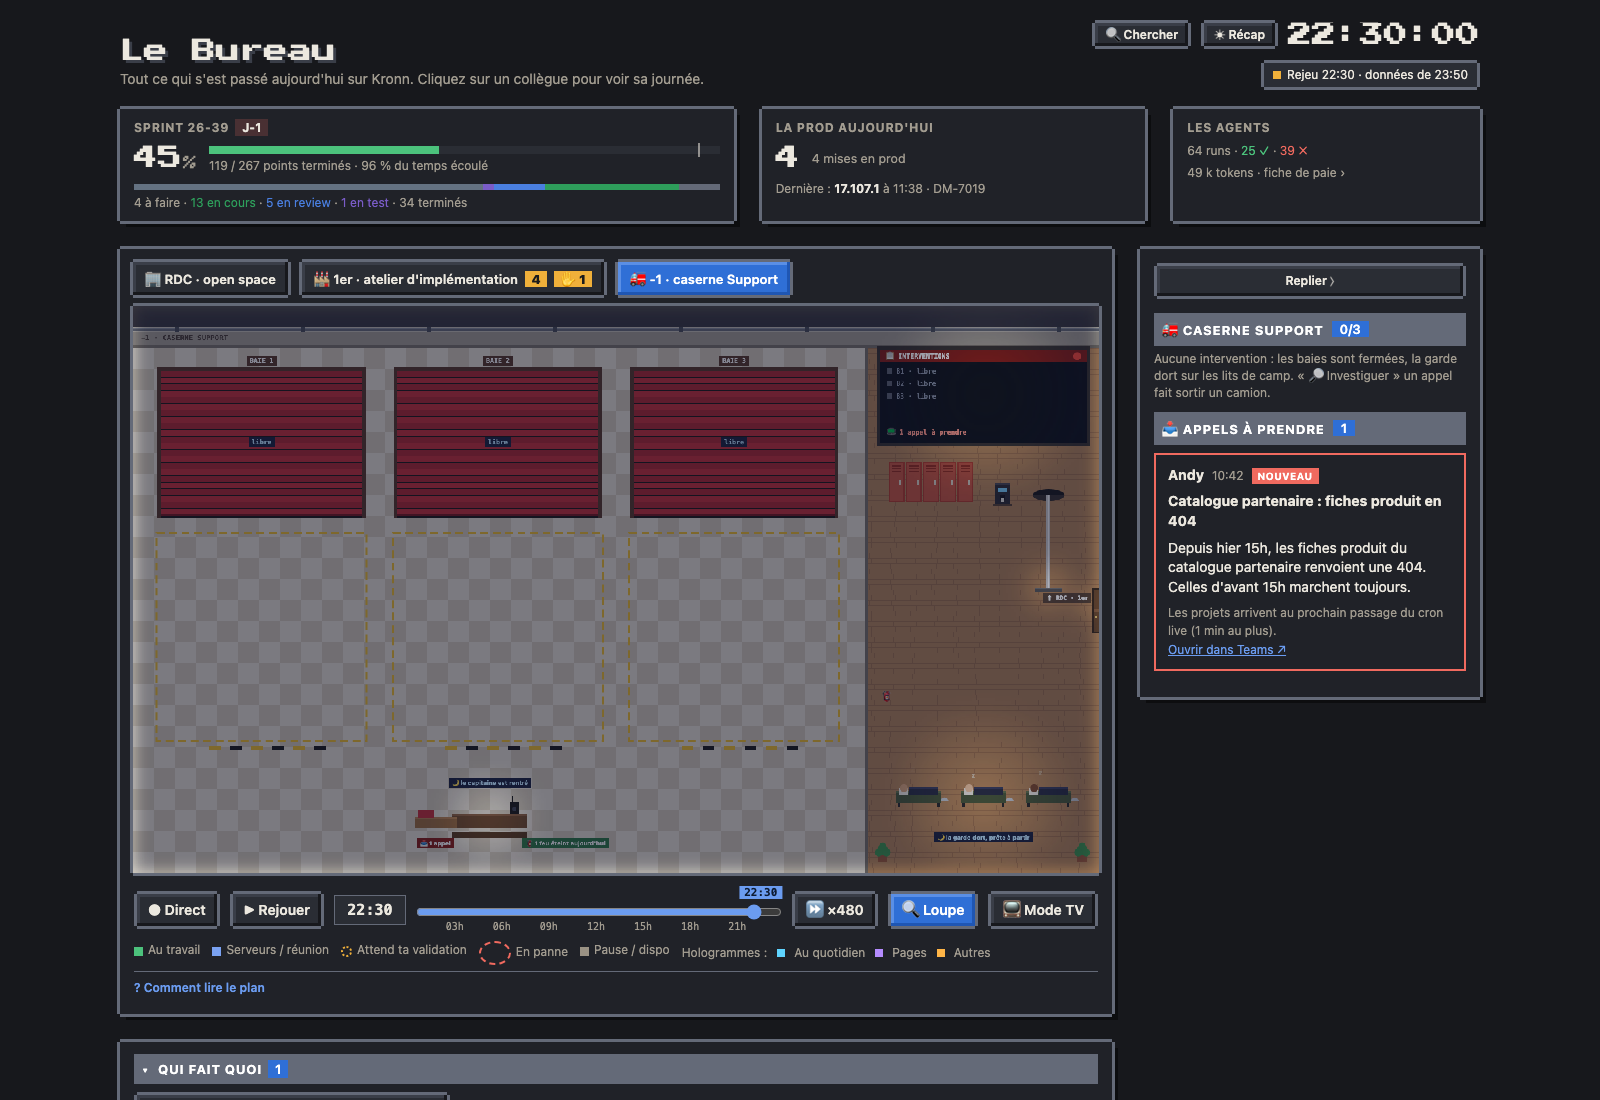
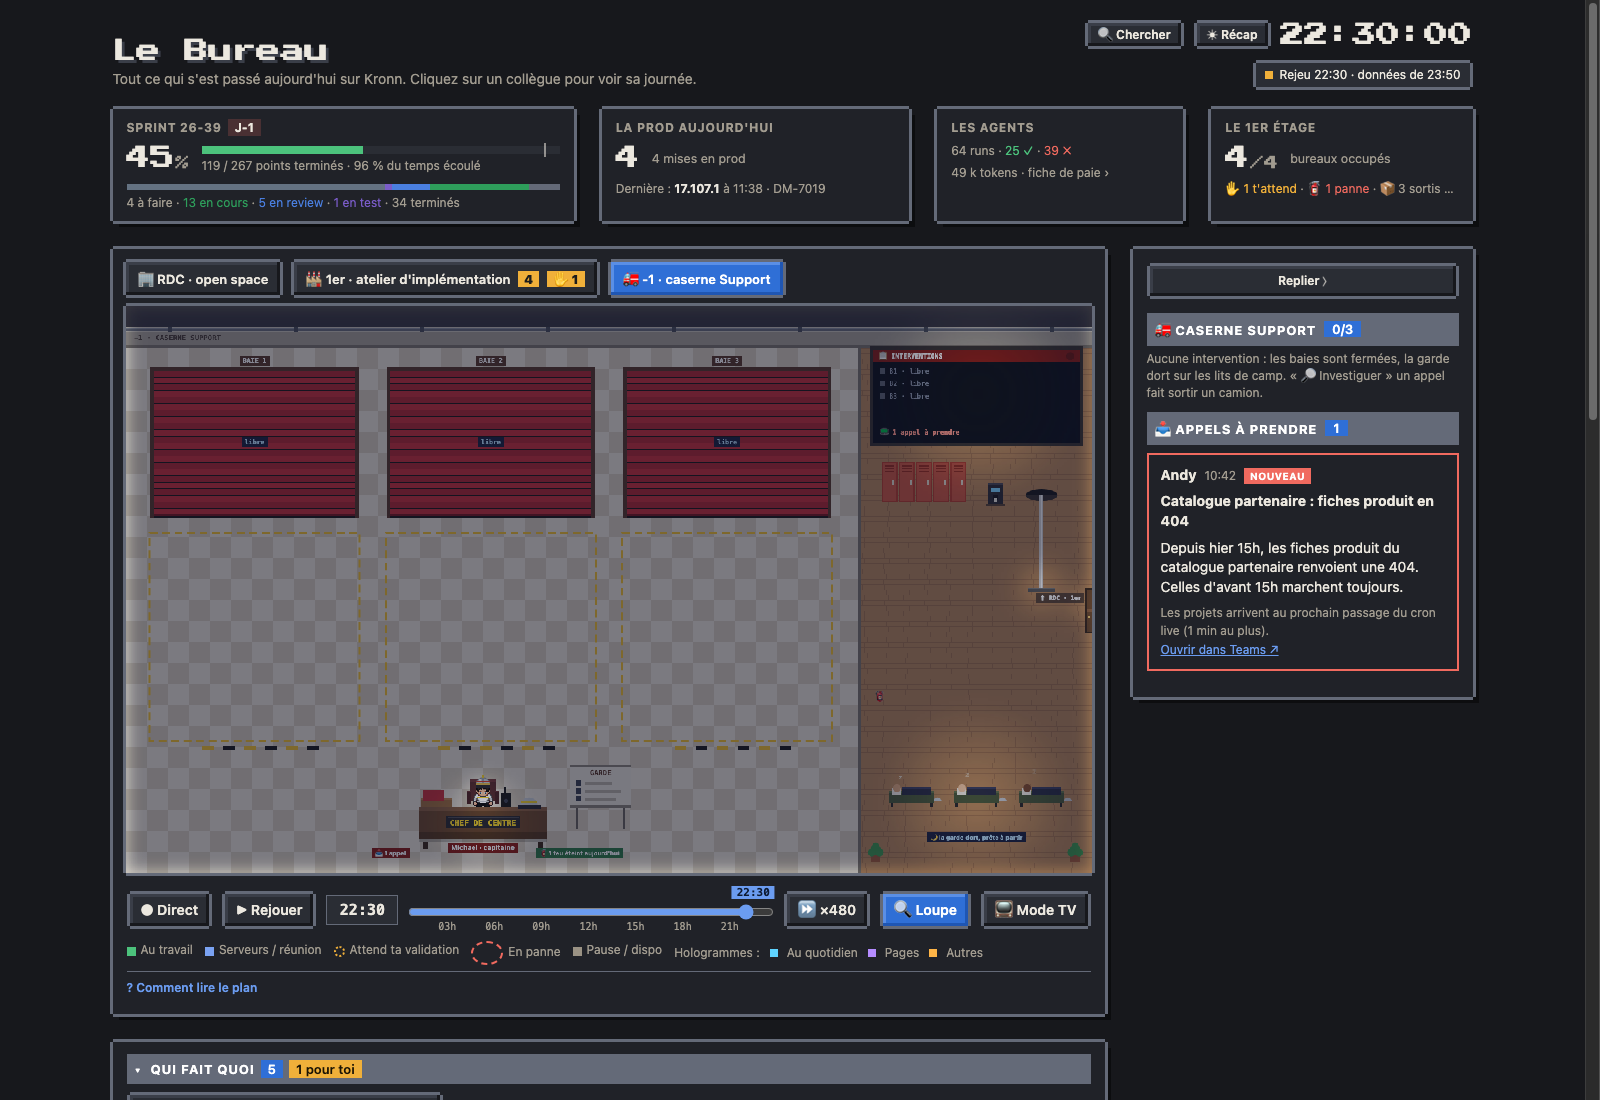
feat(caserne): le bureau du chef de centre, agrandi, et le capitaine de face
Le poste du capitaine était une planche de bois, le capitaine debout derrière, de dos. Il devient le bureau du chef de centre (maquette B choisie par le mainteneur), agrandi ×1,75 : bureau en bois devant lui, plaque « CHEF DE CENTRE », fauteuil rouge, radio verte aux heures de bureau, casque posé, corbeille d'appels cliquable ; à côté, le tableau de garde sur pied (×1,35), un voyant par baie, avec son infobulle. Le capitaine reste à l'échelle des autres, de face, visible jusqu'à la taille ; son étiquette passe sous le bureau. Il part à la vanne par l'arrière, le bureau reste. Pastilles 📥 et 🧯 sous le bureau, lumière du soir et halo inchangés.

diff --git a/page/src/68-caserne.js b/page/src/68-caserne.js
@@ -12,7 +12,7 @@ const CS_POSTES=[{k:'tri',i:'🏷',n:'Tri'},{k:'logs',i:'🔎',n:'Logs'},{k:'cau
   {k:'relecture',i:'🧐',n:'Relecture'},{k:'gate',i:'✋',n:'Toi',gate:true},{k:'post',i:'📣',n:'Teams'}];
 const CS_ST={ok:['ok','a travaillé'],run:['run','au travail'],err:['err','en panne'],gate:['wait','t\'attend'],wait:['','attend son tour']};
 const CS_BAYS=3, CS_BX=[1,12.25,23.5], CS_BW=10.25, CS_DY0=3.1, CS_DY1=10.1, CS_Z0=10.8, CS_Z1=20.7, CS_R1=14.3, CS_R2=18.7;
-const CS_DESK={x:17*AT_TS,y:24.4*AT_TS}, CS_POLE={x:43.6*AT_TS,y0:9*AT_TS,y1:13.4*AT_TS}, CS_TABLE={x:39*AT_TS,y:16*AT_TS};
+const CS_DESK={x:17*AT_TS,y:24.6*AT_TS}, CS_POLE={x:43.6*AT_TS,y0:9*AT_TS,y1:13.4*AT_TS}, CS_TABLE={x:39*AT_TS,y:16*AT_TS};
 const CS_DEP_MS=8e3; // le départ d'un camion : gyrophares, sortie par la baie, rideau qui se referme
 const caserneOn=()=>supportOn();
 // les postes de l'investigation (sous-workflows support_*, CFG.support.postes_wf) : leurs runs ne passent pas au RDC
@@ -218,31 +218,59 @@ function csGuard(now,people){ // la garde : aux cartes le jour, sur les lits de 
   csPole();atDoor(46*T,AT_HY0*T);
   csLate(people,()=>atPill('⬆ RDC · 1er',46*T-48,AT_HY0*T+16,'#5a4636','#fff','bold 9px ui-monospace,Menlo,monospace'),AT_HY0*T);
 }
-// ---------- le capitaine (le boss) : à son poste de commandement, à la vanne quand une réponse attend sa validation ----------
+// ---------- le capitaine (le boss) : à son bureau de chef de centre, à la vanne quand une réponse attend sa validation ----------
+// Vu de face derrière son bureau (comme le boss au 1er) : plaque « CHEF DE CENTRE », fauteuil rouge, radio, casque posé, corbeille
+// d'appels ; à côté, le tableau de garde sur pied, un voyant par baie. Le meuble est agrandi (CS_K) ; le capitaine reste à
+// l'échelle des autres personnages. CS_DESK : ses pieds à son poste.
+const CS_K=1.75, CS_KB=1.35, CS_BACK=16; // échelle du bureau, du tableau de garde ; le capitaine se tient CS_BACK px derrière le bureau
 const csCaptainSprite=b=>b&&b.captain_sprite&&(SPR[b.captain_sprite]||RECIPES[b.captain_sprite])?b.captain_sprite:null;
+function csBayCol(slots,b,now){const s=slots[b];if(!s)return '#3d4250';if(s.dep)return '#3fbf6a';const k=s.s.k;
+  return k==='gate'?(REDUCED_MOTION||Math.floor(now/450)%2?'#ffcf4a':'#a37a10'):k==='failed'?'#e0614f':'#5b8def';}
+function csDesk(slots,now,calls,open){ // le bureau, devant le capitaine : dessiné après lui
+  const {x,y:F}=CS_DESK, K=CS_K, q=(dx,dy,w,h,c)=>R(ctx,Math.round(x+dx*K),Math.round(F+dy*K),Math.round(w*K),Math.round(h*K),c);
+  q(-56,-12,112,24,'#6e4a2c');q(-56,-14,112,4,'#8a6040');q(-56,8,112,6,'#56391f');q(-56,14,112,3,'rgba(0,0,0,.2)');
+  q(-52,17,4,6,'#3e2a18');q(48,17,4,6,'#3e2a18'); // les pieds
+  q(-32,-6,64,11,'#2a2a30');q(-31,-5,62,1,'#4a4a52'); // la plaque
+  ctx.font='bold '+Math.round(7*K)+'px ui-monospace,Menlo,monospace';ctx.fillStyle='#f2d22a';ctx.textAlign='center';ctx.fillText('CHEF DE CENTRE',x,Math.round(F+3*K));ctx.textAlign='left';
+  q(-54,-22,26,8,'#a0703f');q(-54,-22,26,2,'#b98552'); // la corbeille d'appels
+  for(let k=0;k<Math.min(4,calls.length);k++)q(-52+k*5,-20-8-k*2,18,9,'#c8323a');
+  ctx.fillStyle='#c9cfd6';ctx.beginPath();ctx.arc(x+40*K,F-14*K,8*K,Math.PI,0);ctx.fill();q(30,-15,20,3,'#2a2a30');q(33,-19,14,2,'#f2d22a'); // le casque posé
+  q(16,-14-12,8,12,'#1c1c1c');q(18,-14-17,1.5,5,'#1c1c1c'); // la radio
+  ctx.fillStyle=open?'#7dffb0':'#3d4250';ctx.beginPath();ctx.arc(x+20*K,F-19*K,1.8*K,0,7);ctx.fill();
+}
+function csGarde(slots,now){ // le tableau de garde sur pied, à droite du bureau : un voyant par baie
+  const K=CS_KB, bx=CS_DESK.x+5.6*AT_TS, base=CS_DESK.y+10, q=(dx,dy,w,h,c)=>R(ctx,Math.round(bx+dx*K),Math.round(base+dy*K),Math.round(w*K),Math.round(h*K),c);
+  q(-28,-24,3,24,'#6a655c');q(25,-24,3,24,'#6a655c'); // les pieds
+  q(-34,-73,68,46,'#e9e4d8');q(-34,-73,68,3,'#8a8478');q(-34,-27,68,3,'#8a8478');
+  ctx.font='bold '+Math.round(8*K)+'px ui-monospace,Menlo,monospace';ctx.fillStyle='#5a3a2a';ctx.textAlign='center';ctx.fillText('GARDE',bx,Math.round(base-61*K));ctx.textAlign='left';
+  for(let b=0;b<3;b++){q(-28,-55+b*9,7,6,csBayCol(slots,b,now));q(-17,-53+b*9,30+(b*11)%18,3,'#b9b2a4');}
+  atHitCs('garde',Math.round(bx-34*K),Math.round(base-73*K),Math.round(68*K),Math.round(73*K),{});
+}
 function csCaptain(slots,now,dt,people){
-  const T=AT_TS, boss=chars.find(c=>c.boss), d=CS_DESK, open=atOpen();
-  R(ctx,d.x-1.8*T,d.y-.2*T,3.6*T,22,'#6e4a2c');R(ctx,d.x-1.8*T,d.y-.2*T,3.6*T,3,'#8a6040');R(ctx,d.x-1.8*T,d.y+.2*T+14,3.6*T,10,'#56391f');
-  R(ctx,d.x+30,d.y-.2*T-18,14,18,'#1c1c1c');R(ctx,d.x+33,d.y-.2*T-28,2,10,'#1c1c1c');ctx.fillStyle=open?'#7dffb0':'#3d4250';ctx.beginPath();ctx.arc(d.x+37,d.y-.2*T-8,3,0,7);ctx.fill(); // la radio
-  const calls=csCalls();R(ctx,d.x-3.6*T,d.y-.1*T,2*T,18,'#a0703f');R(ctx,d.x-3.6*T,d.y-.1*T,2*T,3,'#b98552');
-  for(let k=0;k<Math.min(4,calls.length);k++)R(ctx,d.x-3.4*T+k*12,d.y-.1*T-10-k*2,24,12,'#c8323a');
-  csLate(people,()=>{atPill('📥 '+(calls.length?plural(calls.length,'appel','appels'):'aucun appel'),d.x-2.6*T,d.y+1.3*T,calls.length?'#8a1f17':'#5b6070','#fff','bold 9px system-ui,sans-serif');
-    const n=csDoneToday();atPill('🧯 '+(n?plural(n,'feu éteint','feux éteints')+' aujourd\'hui':'aucun feu aujourd\'hui'),d.x+3.6*T,d.y+1.3*T,n?'#2f7a45':'#5b6070','#fff','bold 9px system-ui,sans-serif');},d.y+1.4*T);
-  atHitCs('calls',d.x-3.8*T,d.y-1*T,2.4*T,2.4*T,{});
+  const T=AT_TS, boss=chars.find(c=>c.boss), d=CS_DESK, F=d.y, K=CS_K, open=atOpen(), calls=csCalls();
+  csGarde(slots,now);
+  if(boss){const cx=d.x, f=F-CS_BACK;R(ctx,cx-20,f-50,40,34,'#5a2e2e');R(ctx,cx-20,f-50,40,4,'#723a3a');R(ctx,cx-25,f-32,6,20,'#4a2424');R(ctx,cx+19,f-32,6,20,'#4a2424'); // le fauteuil
+    R(ctx,cx-25,f-32,6,2,'#6a3434');R(ctx,cx+19,f-32,6,2,'#6a3434');}
+  csLate(people,()=>csDesk(slots,now,calls,open),F+2);
+  csLate(people,()=>{atPill('📥 '+(calls.length?plural(calls.length,'appel','appels'):'aucun appel'),d.x-4.4*T,F+1.55*T,calls.length?'#8a1f17':'#5b6070','#fff','bold 9px system-ui,sans-serif');
+    const n=csDoneToday();atPill('🧯 '+(n?plural(n,'feu éteint','feux éteints')+' aujourd\'hui':'aucun feu aujourd\'hui'),d.x+4.6*T,F+1.55*T,n?'#2f7a45':'#5b6070','#fff','bold 9px system-ui,sans-serif');},F+1.6*T);
+  atHitCs('calls',Math.round(d.x-56*K),Math.round(F-30*K),Math.round(30*K),Math.round(18*K),{});
   if(!boss)return; // le soir et le week-end, il reste, comme le boss au 1er (sous l'éclairage réduit)
-  const gi=slots.findIndex(s=>s&&!s.dep&&s.s.k==='gate'), home={x:d.x,y:d.y-.25*T}, target=gi<0?null:gi;
+  const gi=slots.findIndex(s=>s&&!s.dep&&s.s.k==='gate'), home={x:d.x,y:F-CS_BACK}, target=gi<0?null:gi;
   let m=CS_MEM.boss;
+  // vers la vanne : il remonte derrière son bureau, longe les baies, puis descend à la vanne
   const path=i=>{const z=CS_G[i], v=z.pts[5];return [{x:m?m.walk.pos.x:home.x,y:m?m.walk.pos.y:home.y},{x:m?m.walk.pos.x:home.x,y:(CS_Z1+.9)*T},{x:v.x,y:(CS_Z1+.9)*T},{x:v.x,y:v.y}];};
   if(!m||REDUCED_MOTION&&m.target!==target){m=CS_MEM.boss={target,walk:atWalker([target==null?home:CS_G[target].pts[5]])};}
   if(m.target!==target){m.target=target;m.walk=atWalker(target==null?[{...m.walk.pos},{x:m.walk.pos.x,y:(CS_Z1+.9)*T},{x:home.x,y:(CS_Z1+.9)*T},home]:path(target),90);}
-  const arrived=atStep(m.walk,dt), p=m.walk.pos, dir=arrived?(target==null?'up':'down'):m.walk.dir;
+  const arrived=atStep(m.walk,dt), p=m.walk.pos, dir=arrived?'down':m.walk.dir, home_=arrived&&target==null;
   // son dessin de capitaine : captain_sprite de la personne du boss (roster du pack) s'il est réglé et embarqué, sinon le sien
   // avec le casque du chef ; il garde son nom, sa fiche et son rôle
   const look=csCaptainSprite(boss);
   const c=Object.assign(Object.create(Object.getPrototypeOf(boss)),boss,{pos:{x:p.x,y:p.y},tile:null,dir,moving:!arrived,pose:'stand',present:true,_st:{st:target==null?'idle':'gate'},sprite:look||boss.sprite});
   people.push([c,null,false,()=>{if(!look)csHelmet(ctx,p.x,p.y,dir,true);
-    atPill(boss.name+' · capitaine',p.x,p.y+16,'#8a1f17','#fff','bold 10px system-ui,sans-serif');
+    if(!home_)atPill(boss.name+' · capitaine',p.x,p.y+16,'#8a1f17','#fff','bold 10px system-ui,sans-serif');
     if(arrived&&target!=null)atBubble(p.x,p.y-66,'✋ j\'ouvre la vanne ?','#8a5a00');}]);
+  if(home_)csLate(people,()=>atPill(boss.name+' · capitaine',p.x,Math.round(F+17*K+12),'#8a1f17','#fff','bold 10px system-ui,sans-serif'),F+3); // sous le bureau
   CS_LIT.push(p);atHitCs('captain',p.x-16,p.y-56,32,60,{});
 }
 // ---------- nuit : hors des heures de bureau, la caserne passe en veilleuse ----------
@@ -307,7 +335,8 @@ function caserneHover(e){
   else if(h&&h.kind==='captain')s=(chars.find(c=>c.boss)||{}).name+' · capitaine : ouvre la vanne (✋) quand une réponse attend sa validation ; clic : sa fiche, comme au RDC';
   else if(h&&h.kind==='calls'){const n=csCalls().length;s=n?plural(n,'appel','appels')+' à prendre : clic pour les voir':'Aucun appel à prendre';}
   else if(h&&h.kind==='board')s='Le tableau des interventions';
-  cv.style.cursor=h&&h.kind!=='pole'&&h.kind!=='guard'&&h.kind!=='board'?'pointer':'default';
+  else if(h&&h.kind==='garde')s='Le tableau de garde : un voyant par baie (bleu : au travail, jaune : t\'attend, rouge : en panne, vert : en route)';
+  cv.style.cursor=h&&h.kind!=='pole'&&h.kind!=='guard'&&h.kind!=='board'&&h.kind!=='garde'?'pointer':'default';
   if(s){tip.style.display='block';tip.style.left=e.clientX+'px';tip.style.top=e.clientY+'px';tip.textContent=s;}else tip.style.display='none';
 }
 // ---------- panneau : les baies, les appels, la fiche d'une intervention ----------

diff --git a/tests/caserne.test.js b/tests/caserne.test.js
@@ -220,3 +220,21 @@ test('captain_sprite du roster : seul le boss le porte', () => {
   const {J} = page();
   assert.equal(J('CAST.filter(c => "captain_sprite" in c).length'), 0, 'le pack de démo ne le règle pas');
 });
+
+test('le bureau du chef de centre : le capitaine de face derrière son bureau, le tableau de garde à côté ; il part, le bureau reste', () => {
+  const {p, J} = page();
+  p.run(`SUPPORT = supportDemo(); setFloor(-1); var __b = chars.find(c => c.boss), __o = csSlots, __d = drawChar, __dk = csDesk, __txt = [], __order = [];
+    csSlots = n => __o(n).map(s => s && s.s && s.s.k === 'gate' ? {...s, s: {...s.s, k: 'run'}} : s); CS_MEM.boss = null;
+    drawChar = (c, now) => { if (c.key === __b.key) __order.push(['capitaine', c.dir]); __d(c, now); };
+    csDesk = (...a) => { __order.push(['bureau']); __dk(...a); };
+    var __ft = ctx.fillText; ctx.fillText = function (t, ...r) { __txt.push(t); return __ft.call(this, t, ...r); };
+    for (let n = 0; n < 20; n++) renderCaserne(1000 + n * 100); __order = []; __txt = []; renderCaserne(3100);`);
+  assert.deepEqual(J('CS_MEM.boss.walk.pos'), J('({x: CS_DESK.x, y: CS_DESK.y - CS_BACK})'), 'chez lui : derrière son bureau');
+  assert.deepEqual(J('__order'), [['capitaine', 'down'], ['bureau']], 'de face, et le bureau dessiné devant lui');
+  assert.ok(J('__txt.includes("CHEF DE CENTRE") && __txt.includes("GARDE")'), 'la plaque et le tableau de garde');
+  assert.ok(J('CS_HITS.some(h => h.kind === "calls") && CS_HITS.some(h => h.kind === "garde") && CS_HITS.some(h => h.kind === "captain")'), 'corbeille d\'appels, tableau et capitaine cliquables');
+  p.run(`csSlots = __o; CS_MEM.boss = null; for (let n = 0; n < 60; n++) renderCaserne(4000 + n * 100); __order = []; renderCaserne(10100);`);
+  assert.ok(J('CS_MEM.boss.walk.pos.y < CS_DESK.y - CS_BACK'), 'une réponse attend : il est parti vers la vanne, par le haut');
+  assert.ok(J('__order.some(o => o[0] === "bureau")'), 'le bureau reste, vide');
+  p.run('csSlots = __o; drawChar = __d; csDesk = __dk; ctx.fillText = __ft;');
+});

diff --git a/guide/fonctionnalites/25-caserne.md b/guide/fonctionnalites/25-caserne.md
@@ -13,9 +13,9 @@ L'onglet « 🚒 -1 · caserne Support » apparaît à côté de « 🏢 RDC · 
 - **Trois baies de camion.** Un fil du Support en investigation, une réponse à valider ou une investigation en panne occupe une baie : le rideau se lève, le camion est là. Un fil garde sa baie jusqu'à la fin ; au-delà de trois, le tableau des interventions dit combien attendent une baie libre. Une baie libre reste fermée.
 - **L'équipe devant son camion**, dans la zone peinte en jaune au sol, rangée dans l'ordre des postes : 🏷 Tri, 🔎 Logs, 🧩 Cause, ✉ Réponse au premier rang, puis 🧐 Relecture, ✋ Toi et 📣 Teams au second. Tous portent la tenue des sapeurs-pompiers : casque F1 chromé, veste marine à bandes jaune et argent. Même langage qu'au 1er étage : **au travail** (un halo, une bulle, il arrose), **a travaillé** (✓), **attend son tour** (silhouette grise), **en panne** (! rouge et fumée, « relance l'investigation »).
 - **Le tuyau** part de l'arrière du camion et passe de main en main dans l'ordre des postes : plein et jaune jusqu'au poste au travail, en pointillé gris pour ceux qui viennent ensuite. On lit l'avancement à la longueur de tuyau plein.
-- **✋ La vanne** : quand la réponse est relue, elle attend ta validation. Le capitaine (le boss, casque à bande rouge) quitte son poste de commandement et vient ouvrir la vanne de la baie. Le pack d'équipe peut lui donner un dessin de pompier à part : `captain_sprite` sur la personne du boss dans `roster.json` (un sprite du pack, comme `boss_sprite`) ; il garde son nom, sa fiche et son rôle, seul son dessin change, et seulement à la caserne.
+- **✋ La vanne** : quand la réponse est relue, elle attend ta validation. Le capitaine (le boss, casque à bande rouge) quitte son bureau et vient ouvrir la vanne de la baie. Le pack d'équipe peut lui donner un dessin de pompier à part : `captain_sprite` sur la personne du boss dans `roster.json` (un sprite du pack, comme `boss_sprite`) ; il garde son nom, sa fiche et son rôle, seul son dessin change, et seulement à la caserne.
 - **Le camion part** quand la réponse est postée dans Teams : l'équipe remonte à bord, les gyrophares s'allument, le camion sort par la baie et le rideau se referme. Un fil traité autrement (pris par un collègue, ignoré) libère sa baie sans sortie.
-- **Le poste de commandement**, en bas : le bureau du capitaine et sa radio, la pile des appels à prendre (les nouveaux fils) et le compteur des feux éteints aujourd'hui (réponses postées).
+- **Le bureau du chef de centre**, en bas : le capitaine s'y tient de face, derrière un grand bureau en bois (plaque « CHEF DE CENTRE », fauteuil rouge, radio verte aux heures de bureau, casque posé, corbeille des appels à prendre, cliquable). À côté, le **tableau de garde** sur pied : un voyant par baie (bleu : au travail, jaune : t'attend, rouge : en panne, vert : en route). Dessous, la pile des appels à prendre (les nouveaux fils) et le compteur des feux éteints aujourd'hui (réponses postées). Quand une réponse attend, il quitte son bureau par l'arrière pour aller à la vanne ; le bureau reste.
 - **La salle de garde**, à droite : le tableau des interventions (une ligne par baie, les appels à prendre, le voyant qui clignote quand un appel attend), les casiers, la machine à café, la garde qui joue aux cartes, les lits de camp. La porte des autres étages et la barre de pompier sont contre le mur de droite.
 - **Le soir et le week-end**, la garde reste : la caserne passe en veilleuse, le capitaine reste à son poste et garde sa lumière, qui le suit jusqu'à la vanne, seules les baies occupées, le tableau, la porte et les lits de camp restent éclairés, et la garde dort, prête à partir. Les interventions continuent.
 

diff --git a/CHANGELOG.md b/CHANGELOG.md
@@ -50,6 +50,7 @@ Format : [Keep a Changelog](https://keepachangelog.com/fr/1.1.0/). Versions : `0
 
 ### Modifié
 
+- Caserne (-1) : le poste du capitaine devient le **bureau du chef de centre**, agrandi (×1,75) : le capitaine de face derrière un bureau en bois (plaque « CHEF DE CENTRE », fauteuil rouge, radio, casque posé, corbeille d'appels cliquable), et à côté le tableau de garde sur pied, un voyant par baie. Avant : une planche de bois, le capitaine de dos. Après la mise à jour : `publish.py all`.
 - Caserne (-1), comme au 1er : un clic sur le capitaine ouvre la fiche du boss dans le panneau (« ← La caserne », Échap ; un lien vers quelqu'un du RDC y remonte) ; le capitaine ou le pompier choisi a le halo du RDC ; le soir, la lumière suit le capitaine jusqu'à la vanne. Nouveau champ de pack `captain_sprite` sur la personne du boss (`roster.json`) : son dessin en capitaine, à la caserne seulement (sinon son sprite et le casque du chef). Après la mise à jour : `publish.py page`.
 - 1er étage, comme au RDC : le soir, la lumière suit le boss et ceux qui marchent (promeneurs, Bernard, l'agent d'entretien) ; un clic sur le boss ouvre sa fiche du RDC dans le panneau de l'étage (elle reste ouverte d'un étage à l'autre ; un lien vers quelqu'un du RDC y redescend) ; l'agent ou le boss choisi a le halo du RDC, le plan s'assombrit autour de lui, Échap le rend. Après la mise à jour : `publish.py page`.
 - 1er étage, comme au RDC : le boss reste à son fauteuil le soir et le week-end, écran allumé, et les agents restent à leur poste (ceux des bureaux libres somnolent et se promènent comme en journée) ; seul Bernard rentre chez lui. Toutes les scènes du 1er (« Comment lire le plan ») se jouent à toute heure : sans ticket sur la chaîne (bureaux de la démo, posés sans scène), avec les quatre bureaux pris (un se libère d'abord) ou un jour sans ménage (sa tournée commence tout de suite). Après la mise à jour : `publish.py page`.
